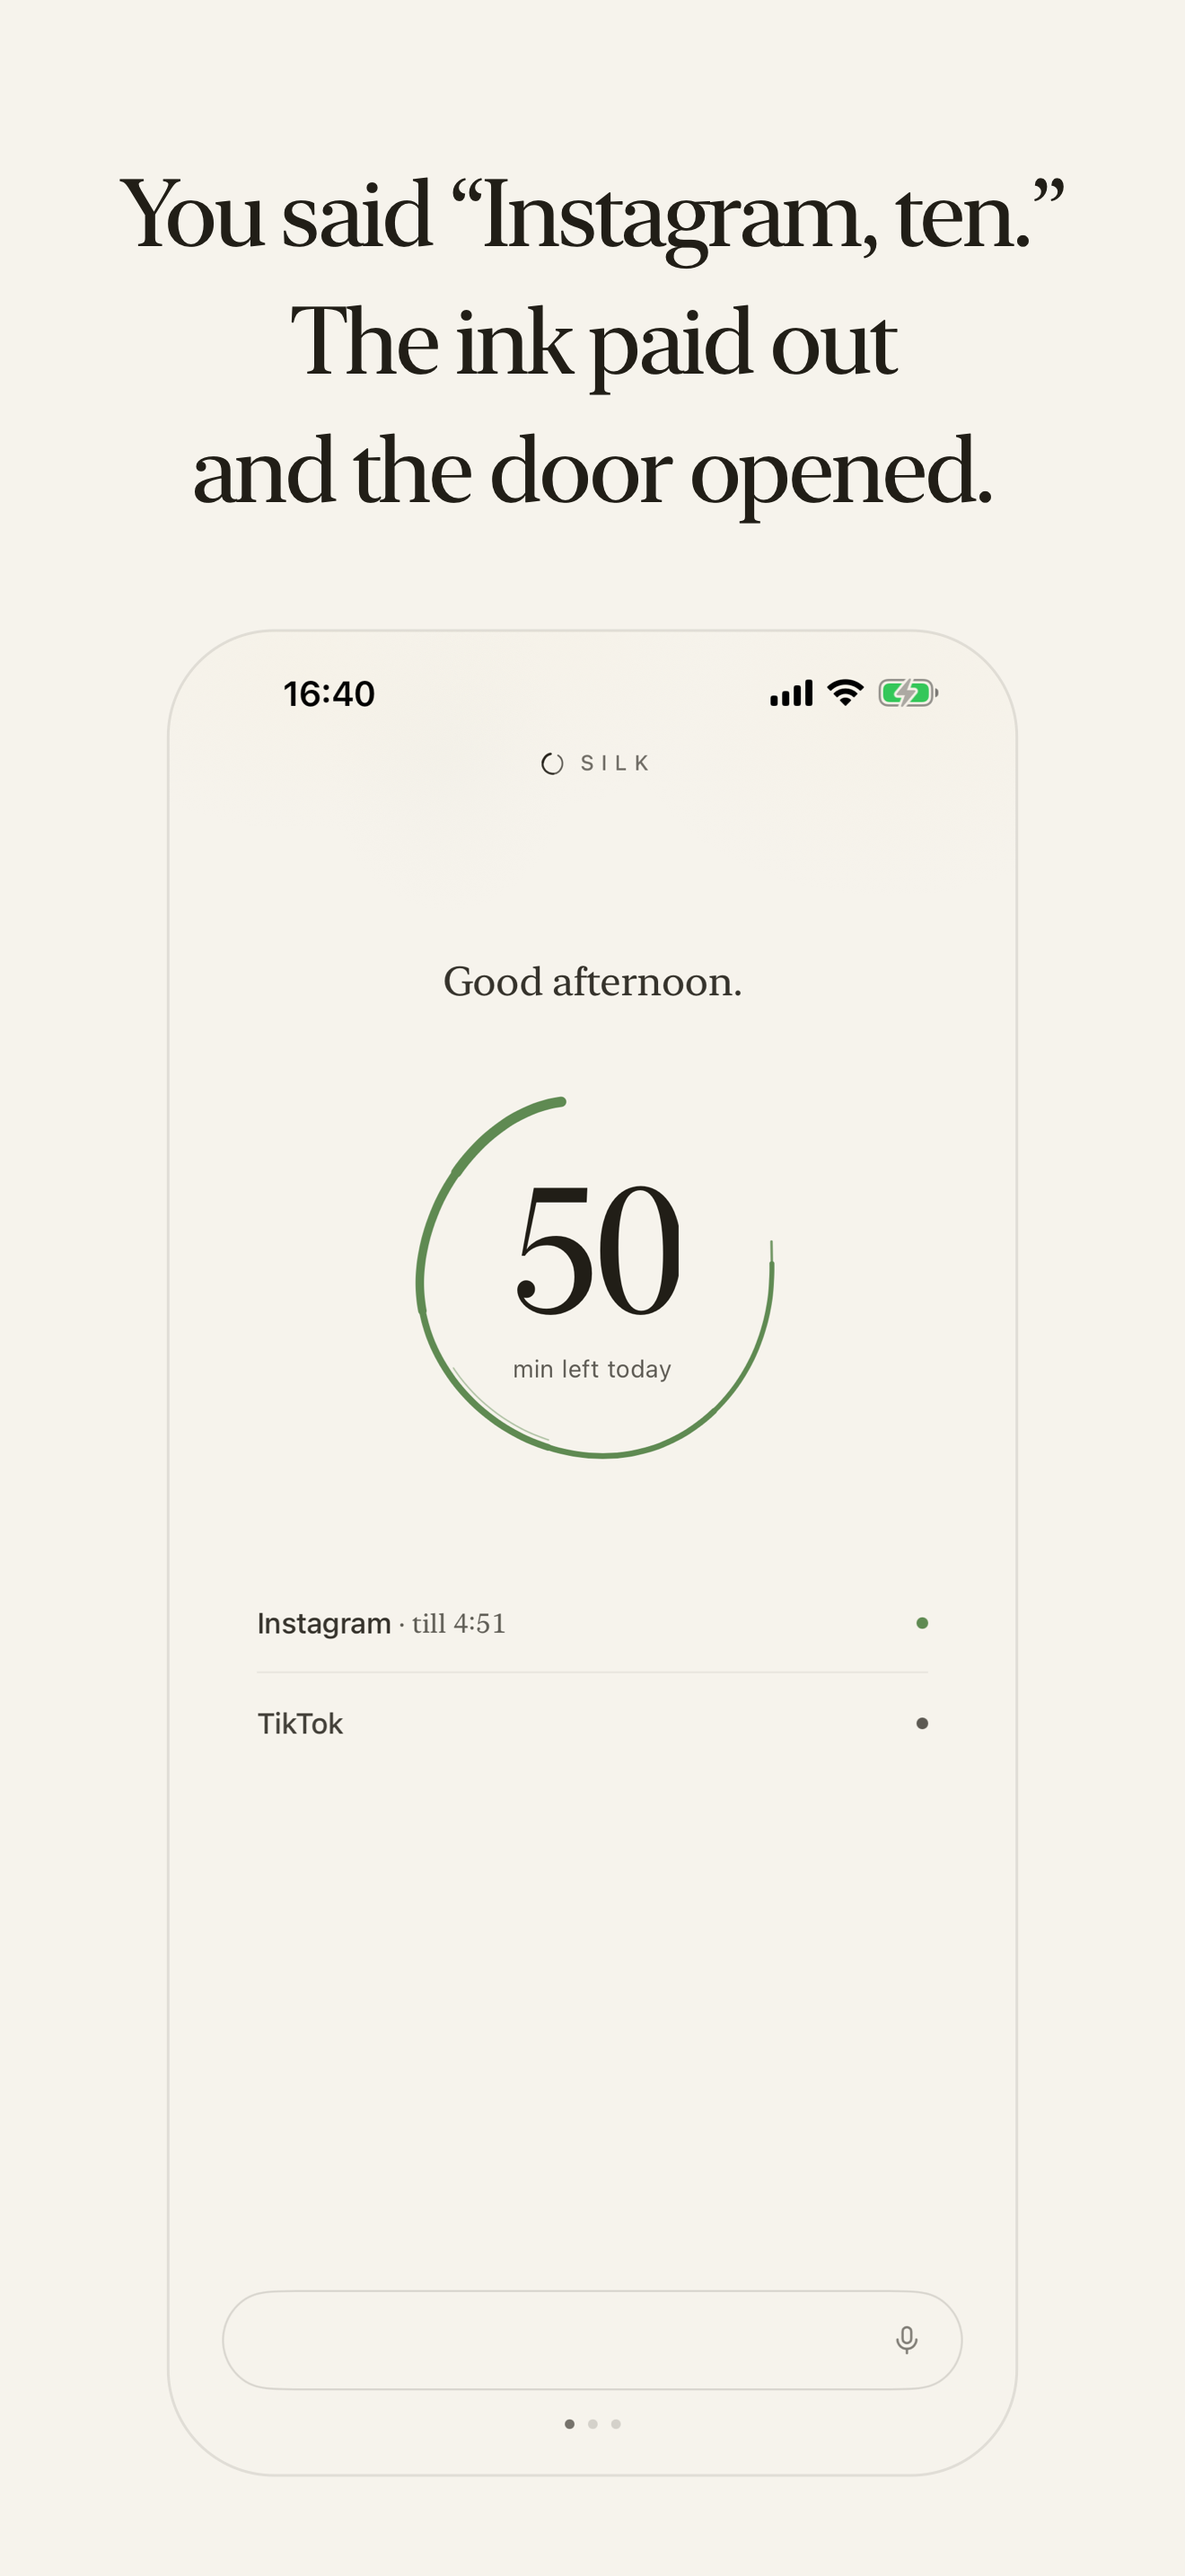
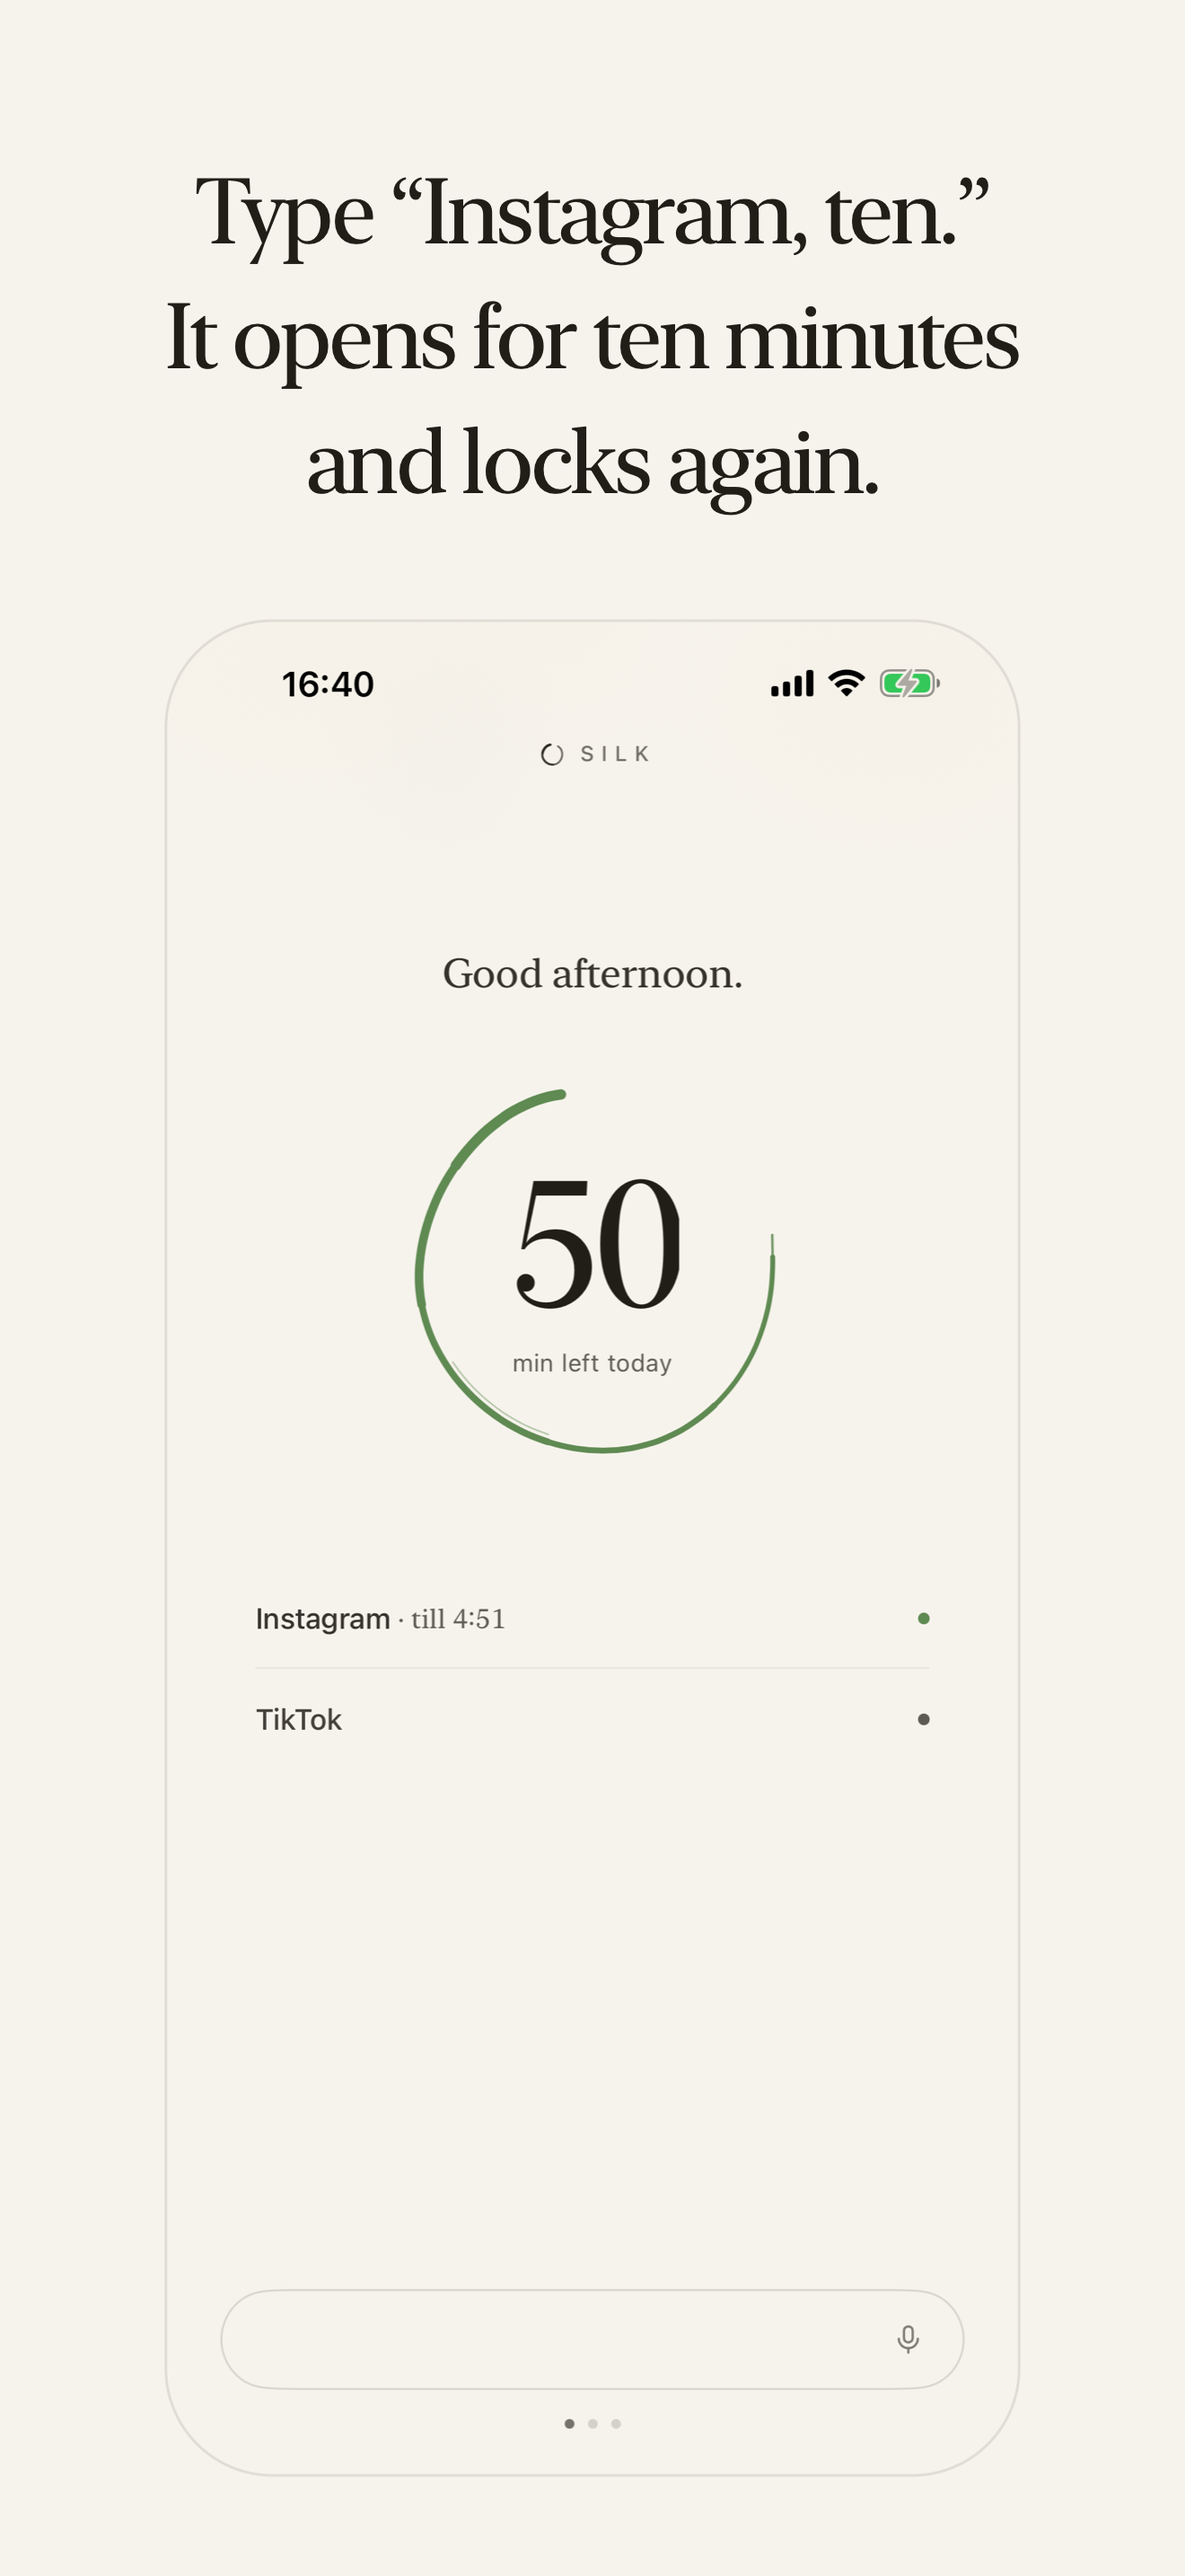
The store copy, the two hosted pages, the runbook and the five captions say what Silk does in plain sentences
The description, promotional text and review notes now state each feature
as a fact: what is blocked, what a budget is, what a ceiling limits, when
a loosening applies, what the blocked app's screen shows. The fragments,
the tailing negations and the kickers are gone; the claims are the same
ones checked against the build this afternoon.

privacy.html and support.html are rewritten the same way, with the same
placeholders. submission-day.md loses its flourishes and keeps its
commands. The five screenshot captions are plain sentences and the finals
are recomposed from the same raw captures.

diff --git a/scripts/compose-screenshots.swift b/scripts/compose-screenshots.swift
@@ -196,49 +196,43 @@ struct Shot {
 let shots = [
     Shot(number: "01",
          caption: """
-         When the day\u{2019}s minutes
-         are gone, this is the
-         whole conversation.
+         When the budget is spent,
+         the blocked app shows
+         when it opens again.
          """,
          capture: "shot-01.png", slack: 0),
     Shot(number: "02",
          caption: """
-         Two numbers, total.
-         Minutes left today.
-         Yesterday\u{2019}s score.
+         Minutes left today,
+         and which apps
+         are open right now.
          """,
          capture: "shot-02.png", slack: 0),
     Shot(number: "03",
          caption: """
-         You said \u{201C}Instagram, ten.\u{201D}
-         The ink paid out
-         and the door opened.
+         Type \u{201C}Instagram, ten.\u{201D}
+         It opens for ten minutes
+         and locks again.
          """,
          capture: "shot-03.png", slack: 0),
     // The two pages with no phone on them are set larger, and the measure is
     // what buys the size: a line of about seventeen characters at this width
     // carries type half again as big as the captions do. So both are broken
-    // short, and read as verse rather than as a paragraph — which is the
-    // register these two claims are making anyway.
+    // short.
     Shot(number: "05",
          caption: """
-         No notifications.
-         No streaks.
-         No leaderboard.
-         No character
-         to disappoint.
+         Silk sends
+         no notifications
+         and keeps
+         no streaks.
          """,
          capture: nil, slack: 0),
     Shot(number: "06",
          caption: """
-         Free.
-         If that ever
-         changes, the wall
-         is not the part
-         you would be
-         paying for.
-         You never paid
-         for the wall.
+         Silk is free.
+         The blocking
+         never depends
+         on a payment.
          """,
          capture: nil, slack: 0)
 ]
